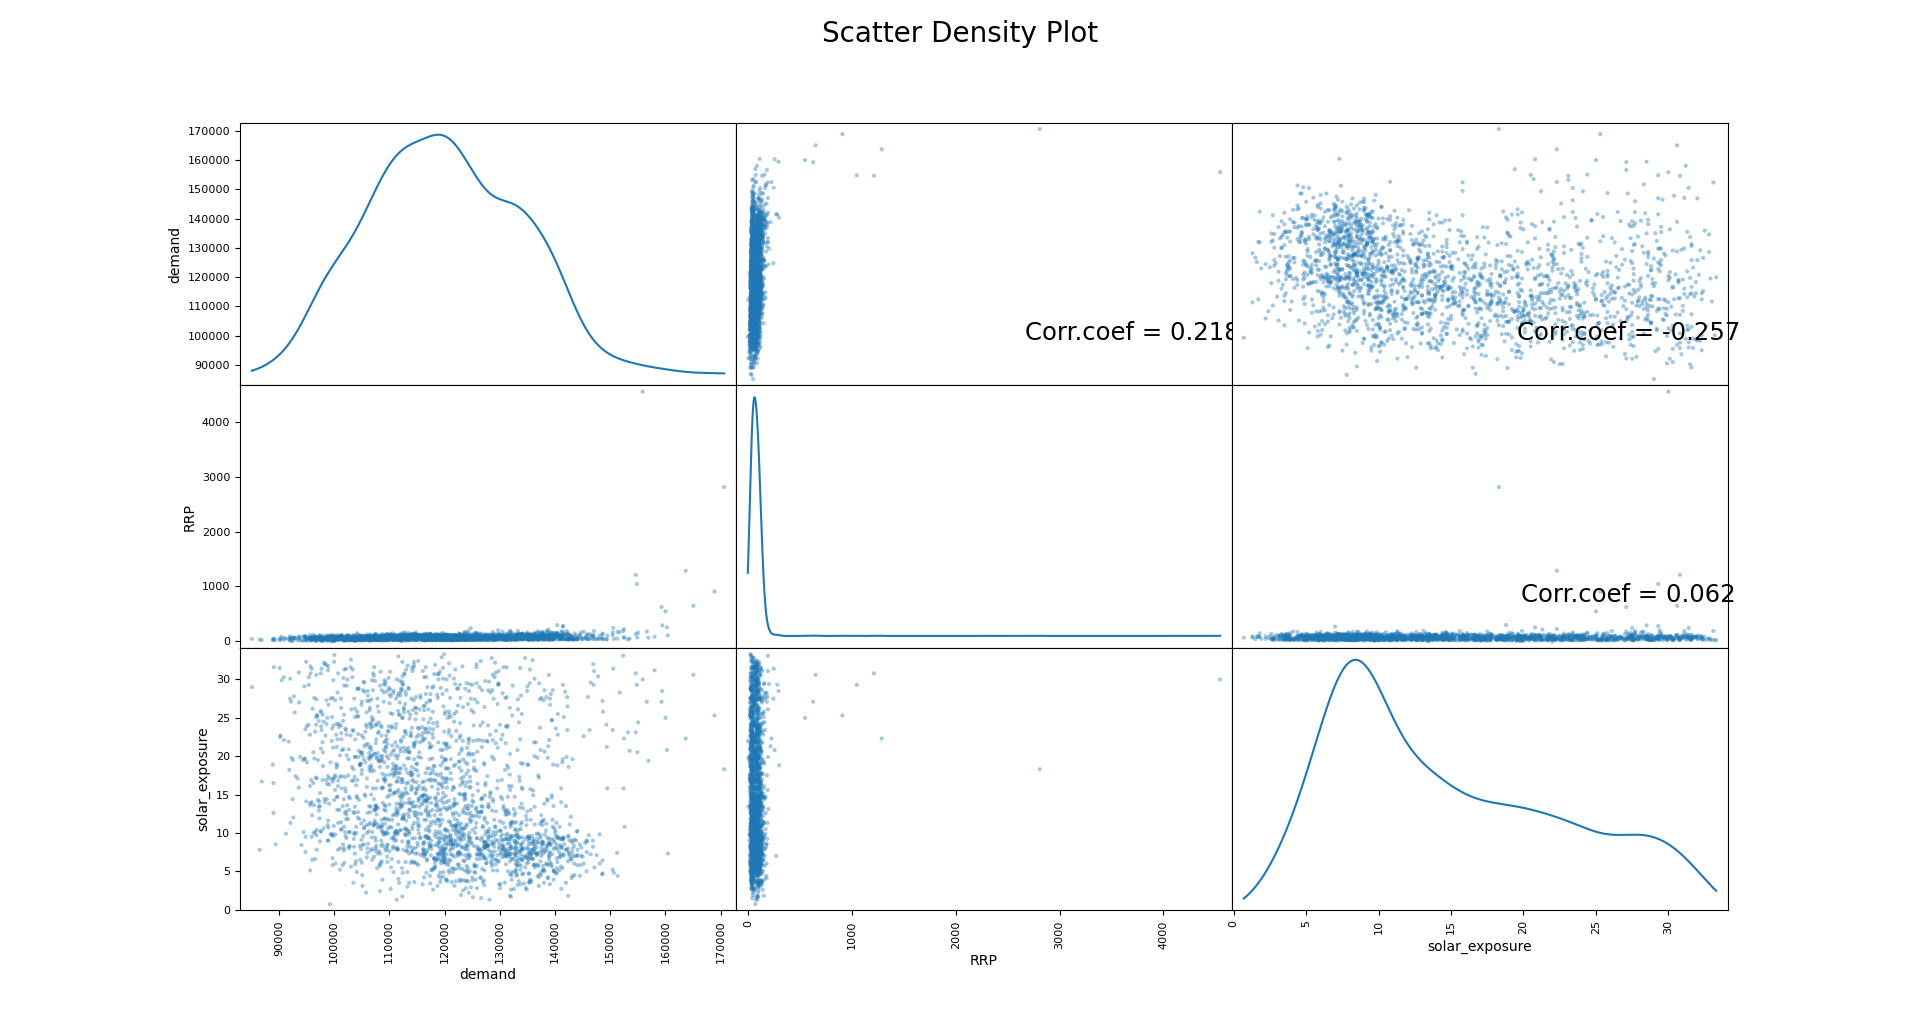
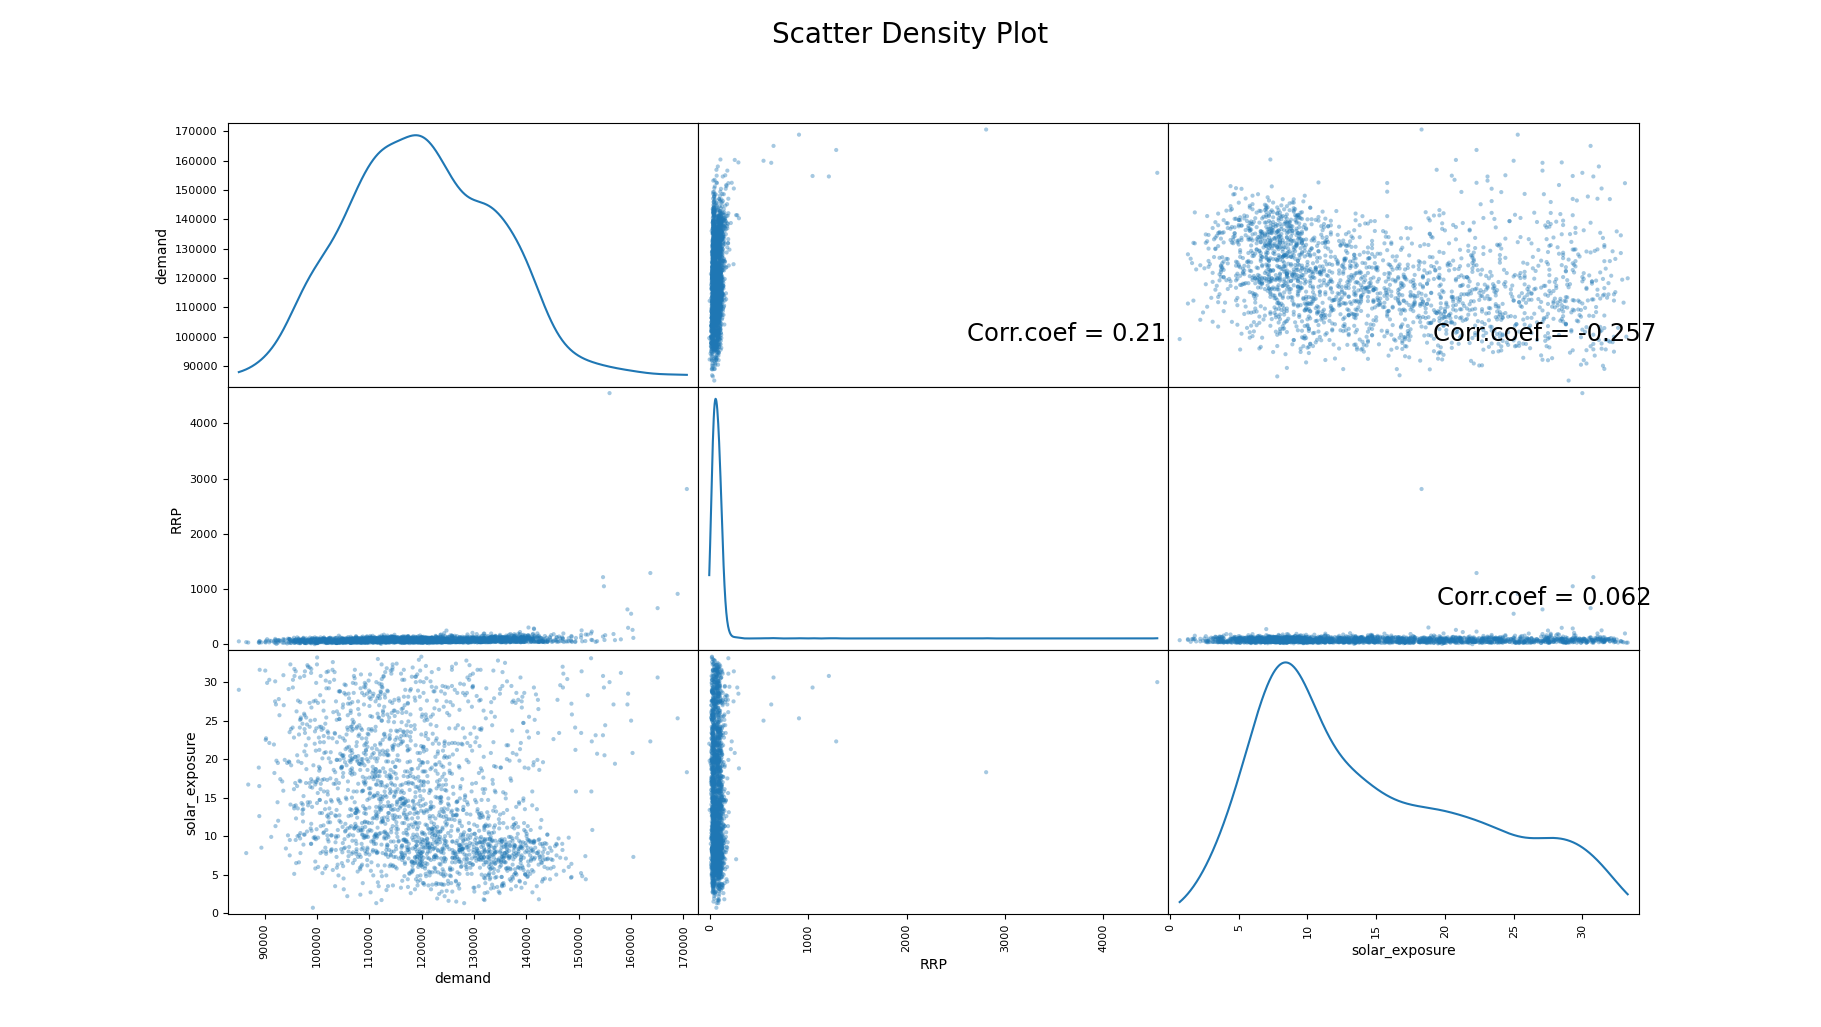
decrptv scatter

diff --git a/Final_proj/Script/Dscrptv_scttr.py b/Final_proj/Script/Dscrptv_scttr.py
@@ -1,59 +1,30 @@
 from mpl_toolkits.mplot3d import Axes3D
 from sklearn.preprocessing import StandardScaler
-import matplotlib.pyplot as plt # plotting
-import numpy as np # linear algebra
-import os # accessing directory structure
-import pandas as pd # data processing, CSV file I/O (e.g. pd.read_csv)
+import matplotlib.pyplot as plt 
+import numpy as np 
+import os 
+import pandas as pd
 
 for dirname, _, filenames in os.walk('data/Elec_daily_Prc_Dmd.csv'):
     for filename in filenames:
         print(os.path.join(dirname, filename))
 
-nRowsRead = None # specify 'None' if want to read whole file
+nRowsRead = None
 fields = ['demand', 'RRP', 'solar_exposure']
-# complete_dataset.csv may have more rows in reality, but we are only loading/previewing the first 1000 rows
-df1 = pd.read_csv('data/Elec_daily_Prc_Dmd.csv', delimiter=',', nrows = nRowsRead, usecols = fields)  #, ncols = nColsRead)
+df1 = pd.read_csv('data/Elec_daily_Prc_Dmd.csv', delimiter=',', nrows = nRowsRead, usecols = fields) 
 df1.dataframeName = 'Elec_daily_Prc_Dmd.csv'
-#nCols = df1.dataframeName[['demand', 'RRP', 'solar_exposure']]
 nRow, nCol = df1.shape
 print(f'There are {nRow} rows and {nCol} columns')
-#print(df1)
+print(df1)
+print(df1.head) 
 
-
-####==============================================================
-# # Distribution graphs (histogram/bar graph) of column data
-# def plotPerColumnDistribution(df, nGraphShown, nGraphPerRow):
-#     nunique = df.nunique()
-#     df = df[[col for col in df if nunique[col] > 1 and nunique[col] < 50]] # For displaying purposes, pick columns that have between 1 and 50 unique values
-#     nRow, nCol = df.shape
-#     columnNames = list(df)
-#     nGraphRow = (nCol + nGraphPerRow - 1) / nGraphPerRow
-#     plt.figure(num = None, figsize = (6 * nGraphPerRow, 8 * nGraphRow), dpi = 80, facecolor = 'w', edgecolor = 'k')
-#     for i in range(min(nCol, nGraphShown)):
-#         plt.subplot(nGraphRow, nGraphPerRow, i + 1)
-#         columnDf = df.iloc[:, i]
-#         if (not np.issubdtype(type(columnDf.iloc[0]), np.number)):
-#             valueCounts = columnDf.value_counts()
-#             valueCounts.plot.bar()
-#         else:
-#             columnDf.hist()
-#         plt.ylabel('counts')
-#         plt.xticks(rotation = 90)
-#         plt.title(f'{columnNames[i]} (column {i})')
-#     plt.tight_layout(pad = 1.0, w_pad = 1.0, h_pad = 1.0)
-#     plt.show()
-    
-
-##==============================================
-# Scatter and density plots
+# Scatter /density plotting 
 def plotScatterMatrix(df, plotSize, textSize):
-    df = df.select_dtypes(include =[np.number]) # keep only numerical columns
-    # Remove rows and columns that would lead to df being singular
-    #df = df.dropna('columns')
-    df = df[[col for col in df if df[col].nunique() > 1]] # keep columns where there are more than 1 unique values
+    df = df.select_dtypes(include =[np.number]) 
+    df = df[[col for col in df if df[col].nunique() > 1]] 
     columnNames = list(df)
-    if len(columnNames) > 10: # reduce the number of columns for matrix inversion of kernel density plots
-        columnNames = columnNames[:10] #10?
+    if len(columnNames) > 3: 
+        columnNames = columnNames[:3] 
     df = df[columnNames]
     ax = pd.plotting.scatter_matrix(df, alpha=0.4, figsize=[plotSize, plotSize], diagonal='kde')
     corrs = df.corr().values
@@ -62,11 +33,4 @@ def plotScatterMatrix(df, plotSize, textSize):
     plt.suptitle('Scatter Density Plot', fontsize=20)
     plt.show()
     
-print(df1.head(5))   #!! kill
-#plotPerColumnDistribution(df1, 10, 5)
-#plotCorrelationMatrix(df1, 8)
-
 plotScatterMatrix(df1, 15, 17.5)
-
-# df2 = pd.DataFrame('data/Elec_daily_Prc_Dmd_Quant.csv'), columns=['demand', 'RRP', 'solar_exposure']
-# pd.plotting.scatter_matrix(df2, alpha=0.2)
